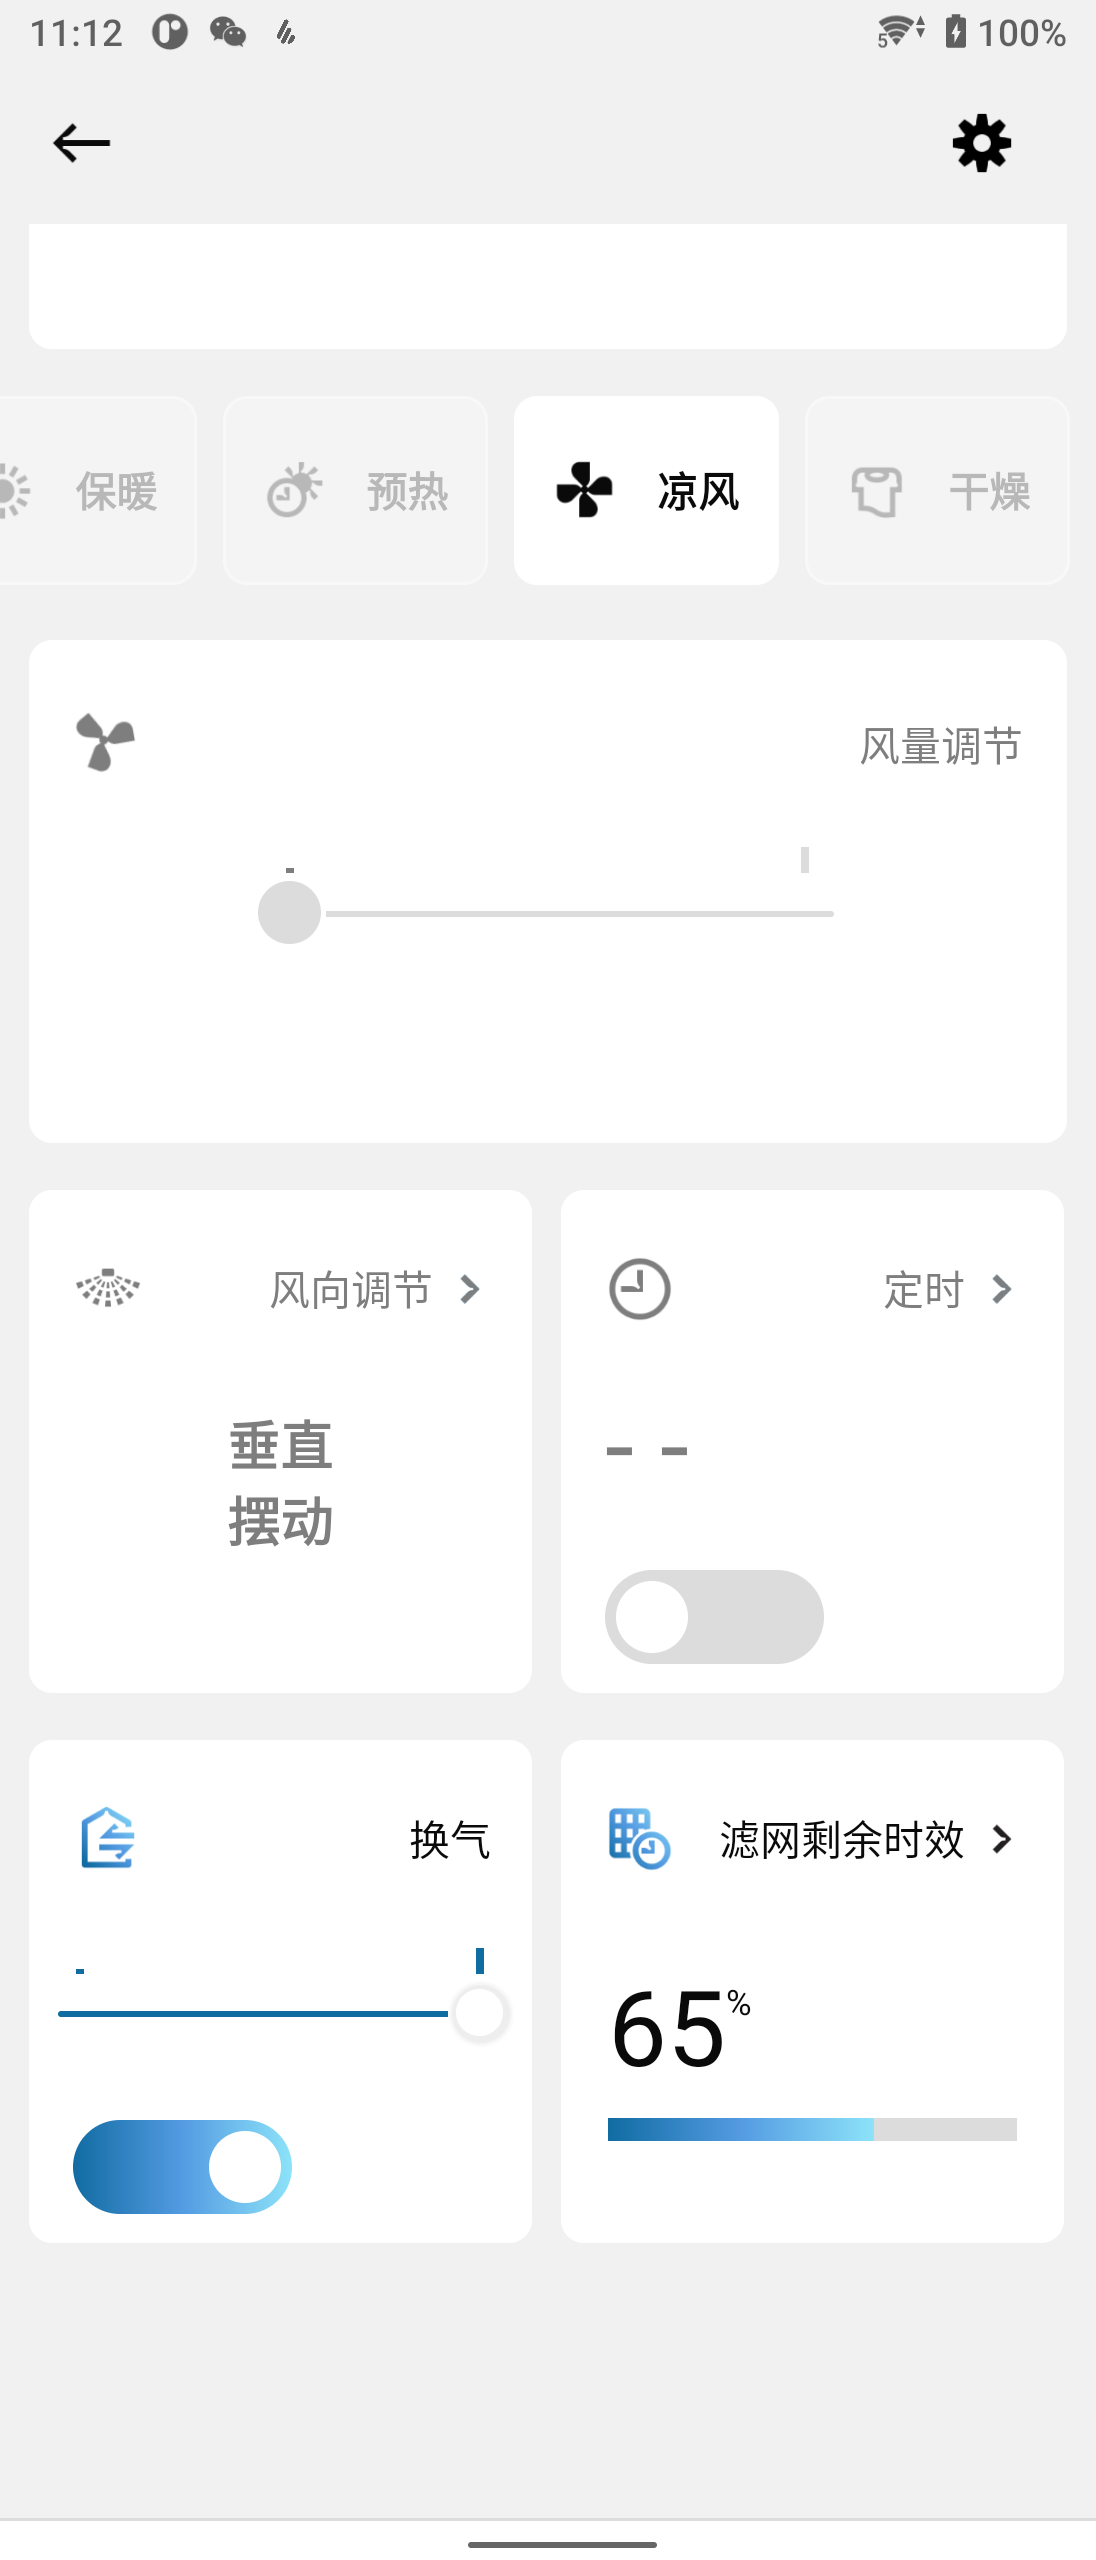
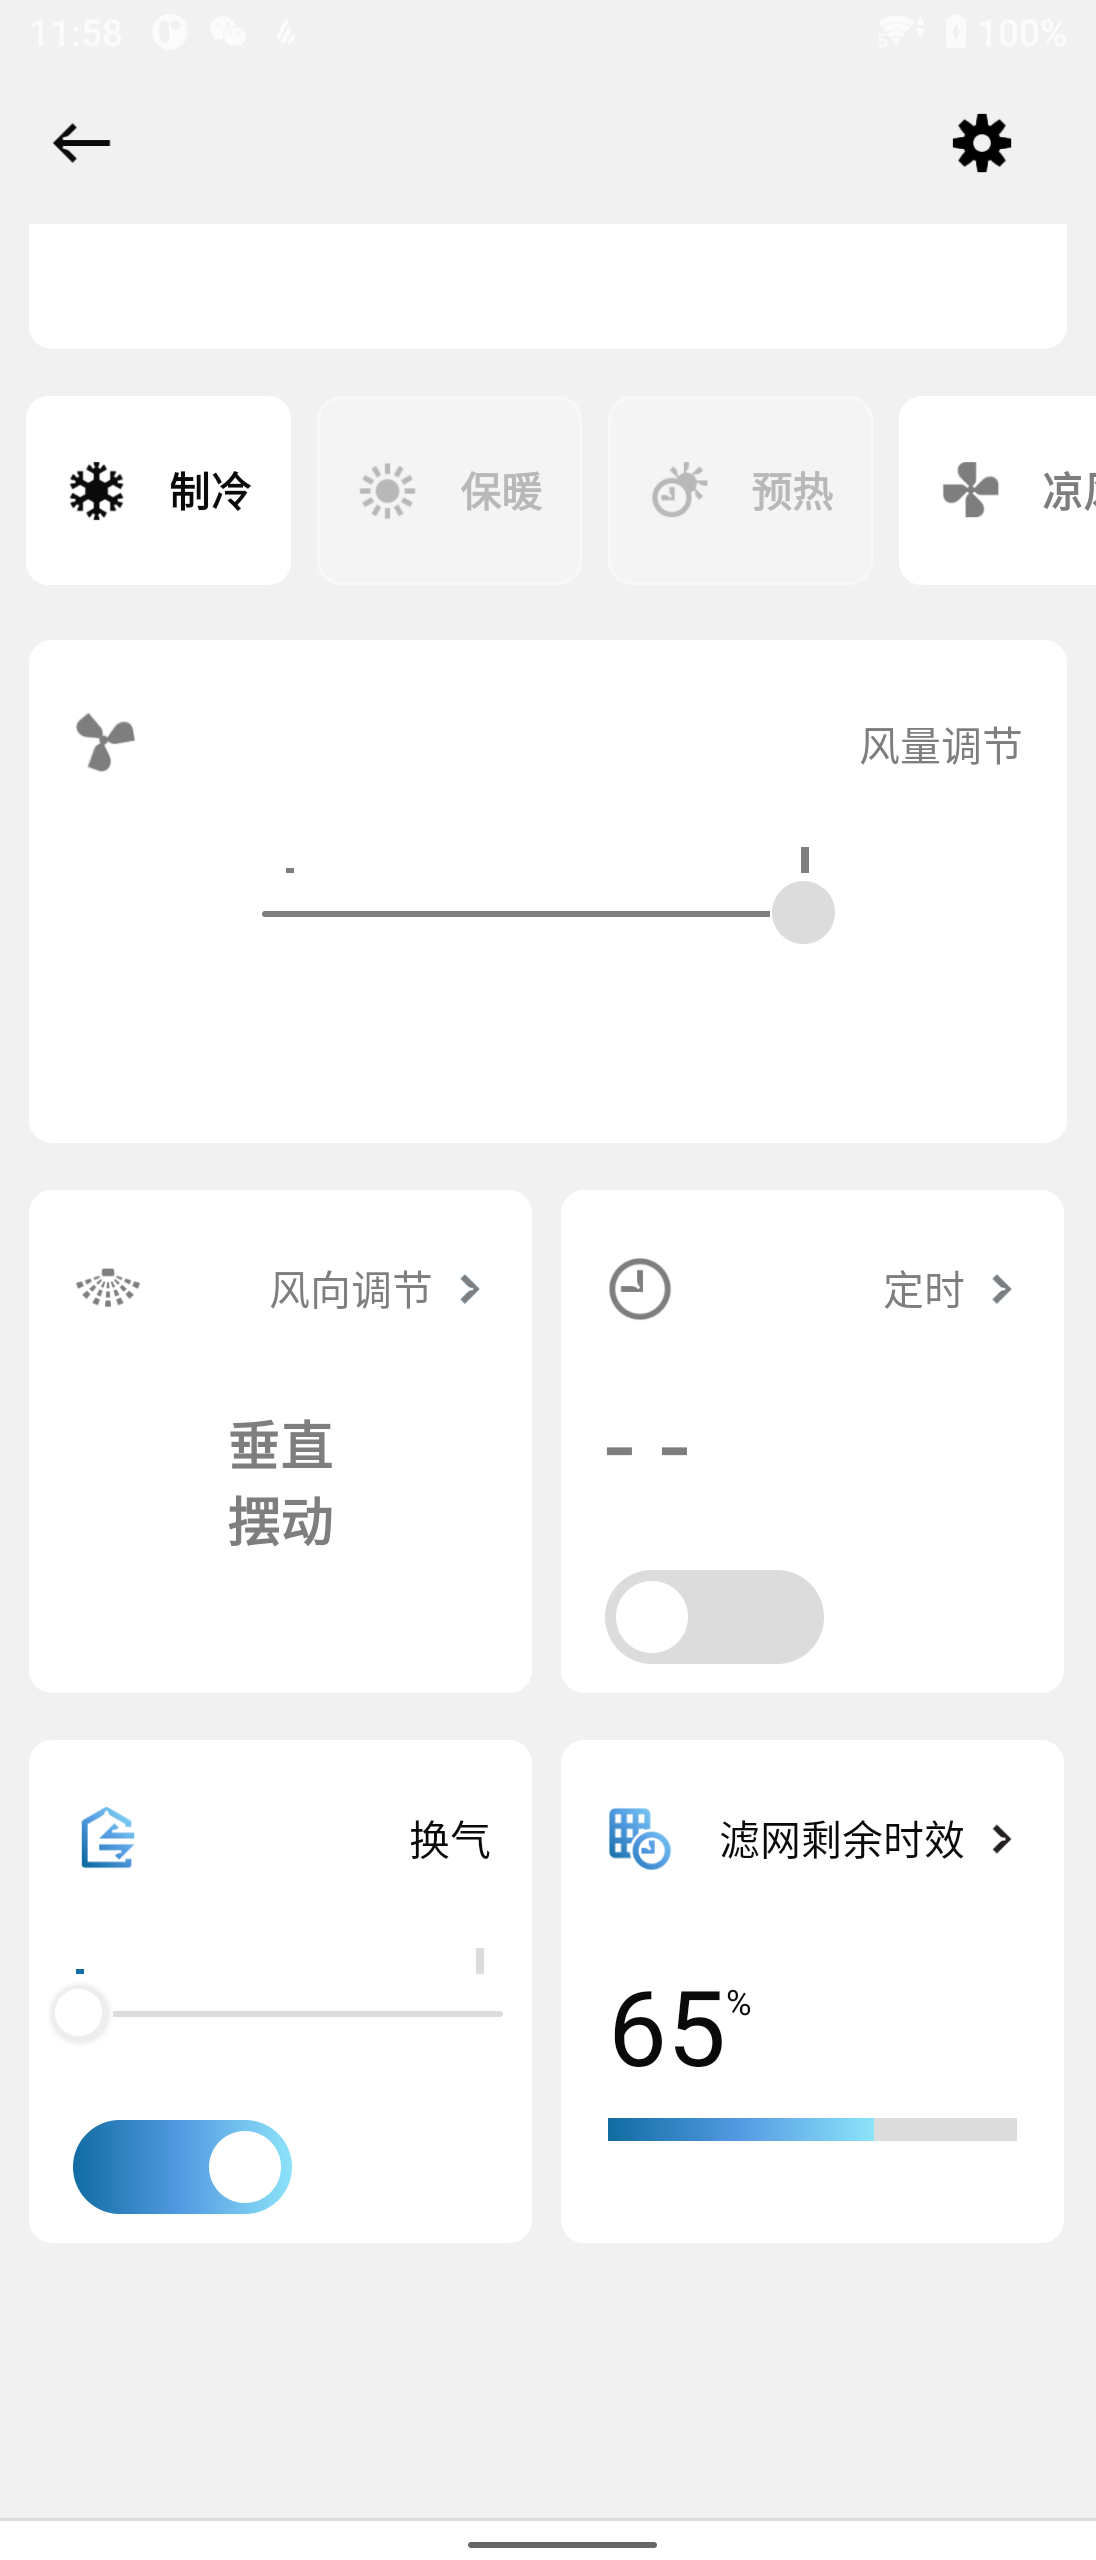
fix: 换气功能完全独立，状态同步正常
- param.py: breathe 编码仅限 BATHROOM 设备，不影响其他空调
- fan.py: turn_on/turn_off/set_percentage 只控制 breathe，不动 switch
- fan.py: 状态 hook 加上 breathe 字段同步
- service.py: poll_status 加上 BATHROOM 设备的定期状态查询

测试验证：
- 开换气不会连带开空调 ✅
- 关换气不会连带关空调 ✅
- APP/面板操作后 HA 状态自动同步 ✅

diff --git a/custom_components/ds_air/ds_air_service/param.py b/custom_components/ds_air/ds_air_service/param.py
@@ -257,6 +257,17 @@ class AirConControlParam(AirconParam):
                     if status.humidity is not None:
                         flag = flag | EnumControl.Type.HUMIDITY
                         li.append((1, status.humidity))
+            else:
+                # BATHROOM 设备：breathe 占 bit 7
+                if status.breathe is not None:
+                    flag = flag | EnumControl.Type.BREATHE
+                    li.append((1, status.breathe.value))
+        else:
+            # 非 new_version：只有 BATHROOM 设备发 breathe
+            if self.target == EnumDevice.BATHROOM:
+                if status.breathe is not None:
+                    flag = flag | EnumControl.Type.BREATHE
+                    li.append((1, status.breathe.value))
         s.write1(flag)
         for bit, val in li:
             if bit == 1:

diff --git a/custom_components/ds_air/fan.py b/custom_components/ds_air/fan.py
@@ -277,6 +277,8 @@ class BathroomFan(FanEntity):
                 status.air_flow = new_status.air_flow
             if new_status.mode is not None:
                 status.mode = new_status.mode
+            if new_status.breathe is not None:
+                status.breathe = new_status.breathe
 
         self.schedule_update_ha_state()
 
@@ -316,10 +318,6 @@ class BathroomFan(FanEntity):
             breathe = EnumControl.Breathe.WEAK
         else:
             breathe = aircon.status.breathe
-
-        if percentage > 0 and aircon.status.switch != EnumControl.Switch.ON:
-            new_status.switch = EnumControl.Switch.ON
-            aircon.status.switch = EnumControl.Switch.ON
 
         aircon.status.breathe = breathe
         new_status.breathe = breathe

diff --git a/custom_components/ds_air/ds_air_service/service.py b/custom_components/ds_air/ds_air_service/service.py
@@ -477,6 +477,12 @@ class Service:
             p.target = EnumDevice.NEWAIRCON
             p.device = i
             self.send_msg(p)
+        if self._bathrooms is not None:
+            for i in self._bathrooms:
+                p = AirConQueryStatusParam()
+                p.target = EnumDevice.BATHROOM
+                p.device = i
+                self.send_msg(p)
         if self._ventilations is not None:
             for v in self._ventilations:
                 p = VentilationQueryStatusParam()
